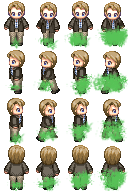
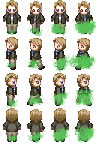
making characters smaller

Changed region(s): [[0.5312, 0.0, 1.0, 1.0], [0.2812, 0.0, 0.4688, 1.0], [0.0312, 0.0, 0.25, 1.0]]

diff --git a/core/src/com/mygdx/roamgame/States/PlayState.java b/core/src/com/mygdx/roamgame/States/PlayState.java
@@ -353,7 +353,7 @@ public class PlayState extends State {
         startRoom = new Environment("roguelike-pack/Map/transition_room.tmx", GRID_UNIT, 4, 1, 2, 3, 8, 3);
         subMaze = new Environment("roguelike-pack/Map/submaze_0.tmx", GRID_UNIT, 10, 1, 1, 10, 21, 2);
         // camera related info
-        cam.setToOrtho(false, RoamGame.WIDTH, RoamGame.HEIGHT);
+        cam.setToOrtho(false, RoamGame.WIDTH*3/4, RoamGame.HEIGHT*3/4);
 
         // game features / interactables
         person = new Texture("steverogers.png");

diff --git a/core/src/com/mygdx/roamgame/sprites/Player.java b/core/src/com/mygdx/roamgame/sprites/Player.java
@@ -84,7 +84,7 @@ public class Player {
 
         loadTextures(person, goo);
 
-        bounds = new Rectangle(x+5, y+5, texture.getWidth()/6, texture.getHeight()/12);
+        bounds = new Rectangle(x+3, y+3, texture.getWidth()/6, texture.getHeight()/12);
         curDir = dir.up;
         curspeedmax = speedmax;
         curdiagspeedmax = diagspeedmax;
